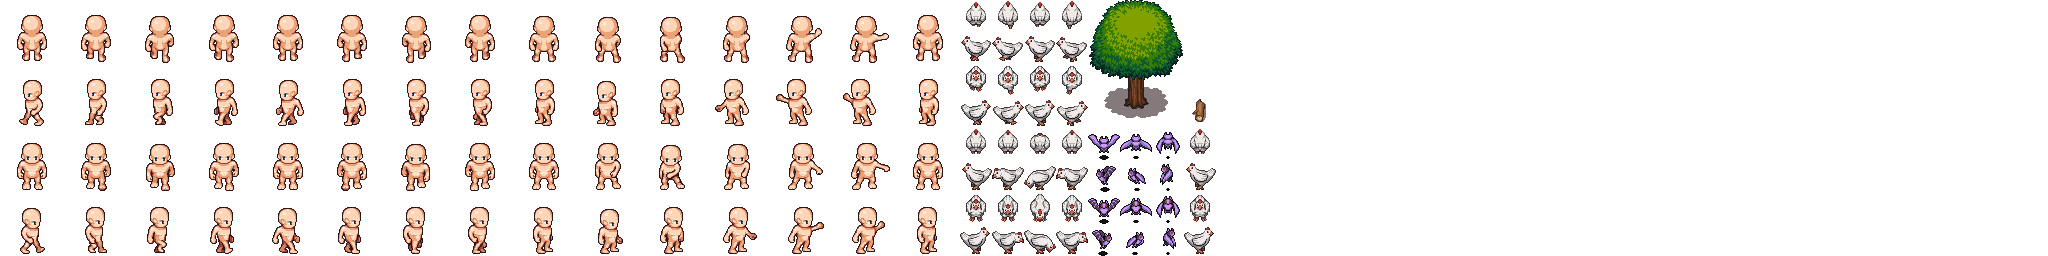
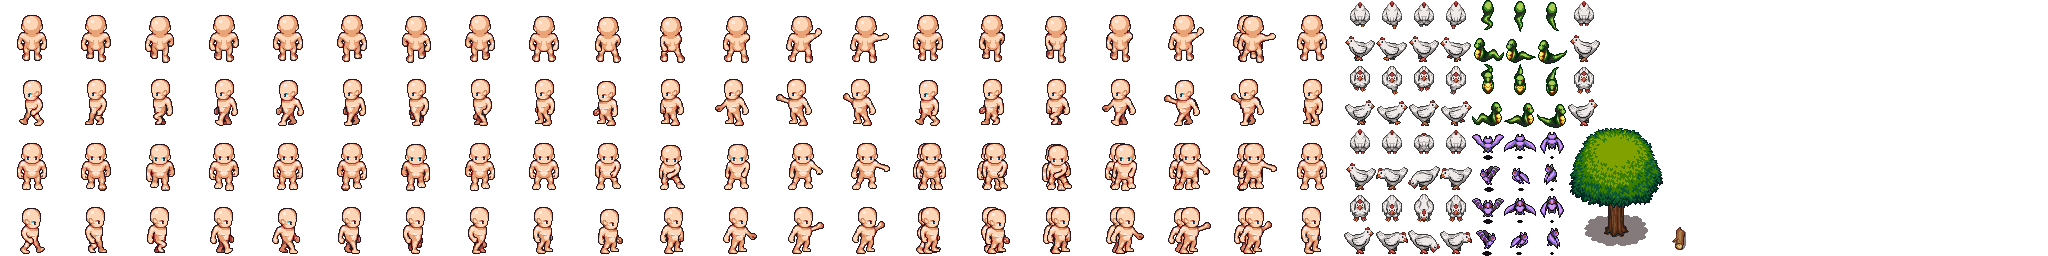
Test-enemy

Changed region(s): [[0.4375, 0.0, 0.8438, 1.0]]

diff --git a/core/src/com/tint/entityengine/server/GameServer.java b/core/src/com/tint/entityengine/server/GameServer.java
@@ -12,7 +12,6 @@ import com.badlogic.ashley.core.Entity;
 import com.badlogic.gdx.utils.JsonReader;
 import com.badlogic.gdx.utils.JsonValue;
 import com.esotericsoftware.kryonet.Connection;
-import com.esotericsoftware.kryonet.JsonSerialization;
 import com.esotericsoftware.kryonet.Server;
 import com.tint.entityengine.GameMap;
 import com.tint.entityengine.entity.EntityGrid;
@@ -28,6 +27,7 @@ import com.tint.entityengine.server.ServerClient.ClientState;
 import com.tint.entityengine.server.entity.components.AiComponent;
 import com.tint.entityengine.server.entity.components.NetworkComponent;
 import com.tint.entityengine.server.entity.components.ai.AiAnimal;
+import com.tint.entityengine.server.entity.components.ai.AiChargeEnemy;
 import com.tint.entityengine.server.entity.systems.AiSystem;
 import com.tint.entityengine.server.entity.systems.ServerNetworkSystem;
 import com.tint.entityengine.server.entity.systems.ServerPlayerSystem;
@@ -45,9 +45,6 @@ public class GameServer {
 
 	private boolean running = true;
 	
-	//Used while developing, will be changed to kryo
-	public JsonSerialization jsonSerialization;
-	
 	public GameServer() {
 		engine = new Engine();
 		engine.addEntityListener(new ServerEntityListener(this));
@@ -60,7 +57,6 @@ public class GameServer {
 		
 		loadMap();
 		
-		jsonSerialization = new JsonSerialization();
 		server = new Server();
 		Packet.register(server.getKryo());
 		server.start();
@@ -75,17 +71,17 @@ public class GameServer {
 		
 		server.addListener(serverListener);
 		
-		if(true) {
+		for(int i = 0; i < 10; i++) {
 			Entity e = new Entity();
-			PositionComponent pos = new PositionComponent(1900, 1900);
+			PositionComponent pos = new PositionComponent((float) (1000 + Math.random() * 1000), (float) (1000 + Math.random() * 1000));
 			e.add(pos);
 			e.add(new NetworkComponent());
-			e.add(new AiComponent(new AiAnimal(e)));
+			e.add(new AiComponent(new AiChargeEnemy(e, this)));
 			e.add(new CollisionComponent(20, 16));
 			
 			RenderComponent rc = new RenderComponent();
 			rc.renderer = new DirectionalRenderer();
-			((DirectionalRenderer) rc.renderer).animFile = "Chicken";
+			((DirectionalRenderer) rc.renderer).animFile = "Bat";
 			e.add(rc);
 			e.add(new HealthComponent(20, this, e));
 			e.add(new AttackHitbox(20, 20, 0, 4));

diff --git a/core/src/com/tint/entityengine/server/entity/components/ai/AiChargeEnemy.java b/core/src/com/tint/entityengine/server/entity/components/ai/AiChargeEnemy.java
@@ -1,0 +1,38 @@
+package com.tint.entityengine.server.entity.components.ai;
+
+import com.badlogic.ashley.core.Entity;
+import com.tint.entityengine.Mappers;
+import com.tint.entityengine.entity.components.PositionComponent;
+import com.tint.entityengine.server.GameServer;
+
+public class AiChargeEnemy implements AiController {
+
+	private PositionComponent position;
+	private Entity entity;
+	private GameServer gameServer;
+	
+	public AiChargeEnemy(Entity entity, GameServer gameServer) {
+		this.position = Mappers.position.get(entity);
+		this.entity = entity;
+		this.gameServer = gameServer;
+	}
+	
+	@Override
+	public void update(int tick) {
+		if(gameServer.getClients().size() == 0)
+			return;
+		
+		PositionComponent playerPos = Mappers.position.get(gameServer.getClients().get(0).getEntity());
+		
+		float dx = playerPos.getX() - position.getX();
+		float dy = playerPos.getY() - position.getY();
+		float angle = (float) Math.atan2(dy, dx);
+		
+		position.add((float) Math.cos(angle) * 3, (float) Math.sin(angle) * 3, -1, true, entity);
+		
+		if(dx * dx + dy * dy < 500) {
+			Mappers.health.get(gameServer.getClients().get(0).getEntity()).addHp(-1);
+		}
+	}
+	
+}

diff --git a/core/src/com/tint/entityengine/server/entity/systems/ServerNetworkSystem.java b/core/src/com/tint/entityengine/server/entity/systems/ServerNetworkSystem.java
@@ -13,6 +13,8 @@ import com.tint.entityengine.server.entity.components.Networked;
 
 public class ServerNetworkSystem extends IteratingSystem {
 
+	private static final int ENTITIES_PER_PACKET = 10;
+	
 	private int updateRate = 1;
 	
 	private int ticksSinceUpdate = 0;
@@ -35,11 +37,8 @@ public class ServerNetworkSystem extends IteratingSystem {
 			super.update(deltaTime);
 			
 			if(!updatePacket.getEntityUpdates().isEmpty()) {
-				//Don't log updatePackets
-				server.jsonSerialization.setLogging(false, true);
 				updatePacket.tick = server.getTicks();
 				server.sendToAllConnectedUDP(updatePacket);
-				//server.jsonSerialization.setLogging(true, true);
 			}
 		}
 		
@@ -66,6 +65,12 @@ public class ServerNetworkSystem extends IteratingSystem {
 					eu.addComponent(n);
 				}
 			}
+		}
+		
+		if(updatePacket.getEntityUpdates().size() >= ENTITIES_PER_PACKET) {
+			updatePacket.tick = server.getTicks();
+			server.sendToAllConnectedUDP(updatePacket);
+			updatePacket.clear();
 		}
 	}
 

diff --git a/core/src/com/tint/entityengine/entity/systems/RenderingSystem.java b/core/src/com/tint/entityengine/entity/systems/RenderingSystem.java
@@ -20,7 +20,7 @@ import com.tint.entityengine.entity.components.RenderComponent;
 
 public class RenderingSystem  {
 
-    public static boolean renderHitboxes = false, renderServerPos = false;
+    public static boolean renderHitboxes = false, renderServerPos = false, renderHealth = false;
     public static Vector2 serverPlayerPos = new Vector2();
     
 	private ShapeRenderer shapeRenderer;
@@ -77,7 +77,7 @@ public class RenderingSystem  {
             
             HealthComponent health = Mappers.health.get(entity);
             
-            if(health != null) {
+            if(renderHealth && health != null) {
             	font.draw(batch, health.getHp() + "/" + health.getMaxHp(), posComp.getLerpX(frameTime), posComp.getLerpY(frameTime) + 50);
             }
         }

diff --git a/core/src/com/tint/entityengine/ui/GameHud.java b/core/src/com/tint/entityengine/ui/GameHud.java
@@ -45,6 +45,16 @@ public class GameHud {
 		debugTable.row();
 		debugTable.add(serverPositionRendering);
 		
+		final CheckBox healthRendering = new CheckBox("Render health", skin);
+		healthRendering.addListener(new ChangeListener() {
+			@Override
+			public void changed(ChangeEvent event, Actor actor) {
+				RenderingSystem.renderHealth = healthRendering.isChecked();
+			}
+		});
+		debugTable.row();
+		debugTable.add(healthRendering);
+		
 		stage.addActor(debugWindow);	
 	}
 

diff --git a/core/src/com/tint/entityengine/network/PacketProcessor.java b/core/src/com/tint/entityengine/network/PacketProcessor.java
@@ -45,7 +45,7 @@ public class PacketProcessor {
 				
 				
 				UpdatePacket up = (UpdatePacket) p;
-				if(up.tick > lastUpdatePacketTick) {
+				if(up.tick >= lastUpdatePacketTick) {
 					lastUpdatePacketTick = up.tick;
 					
 					for(EntityUpdate eu : up.getEntityUpdates()) {
